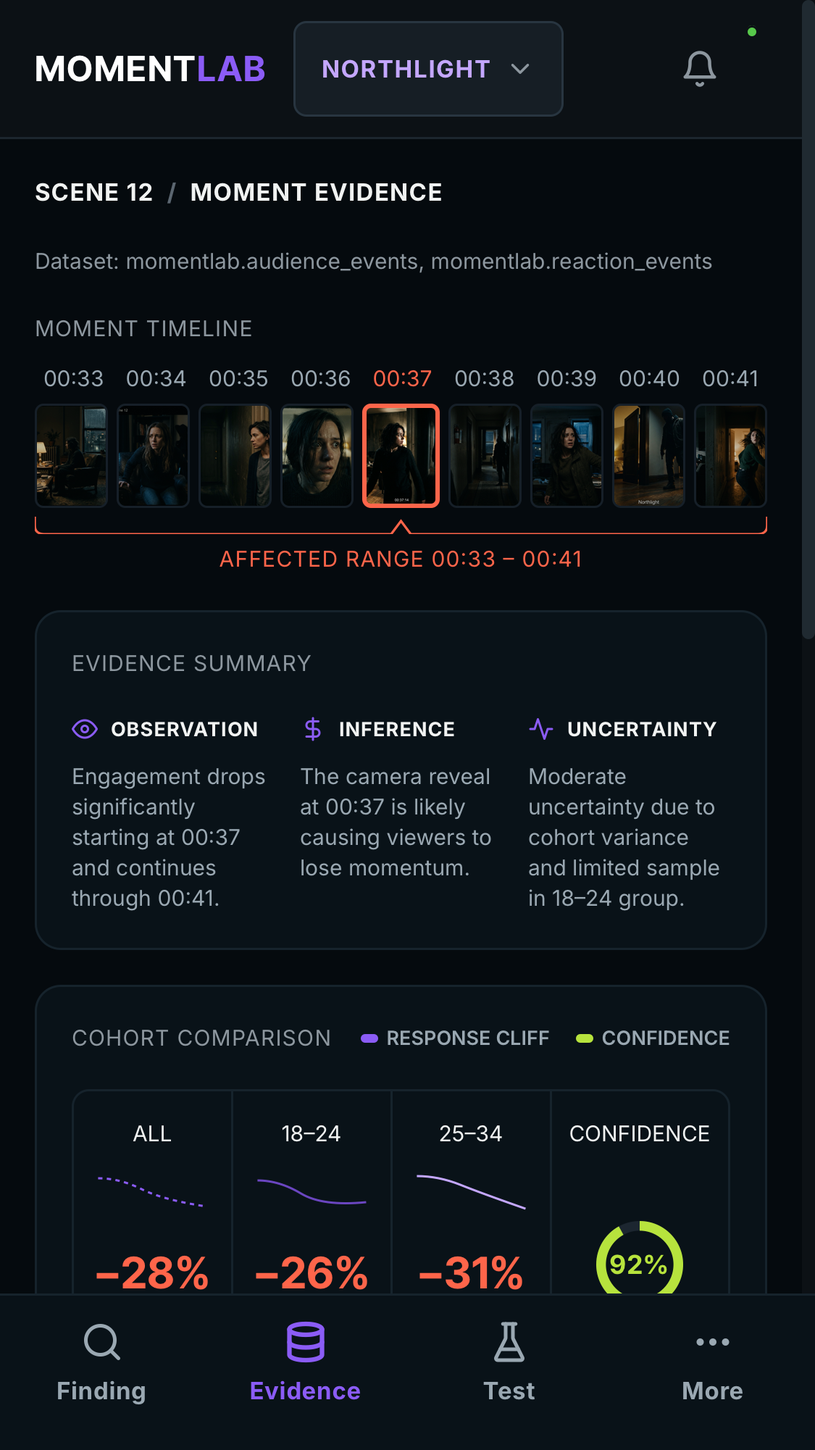
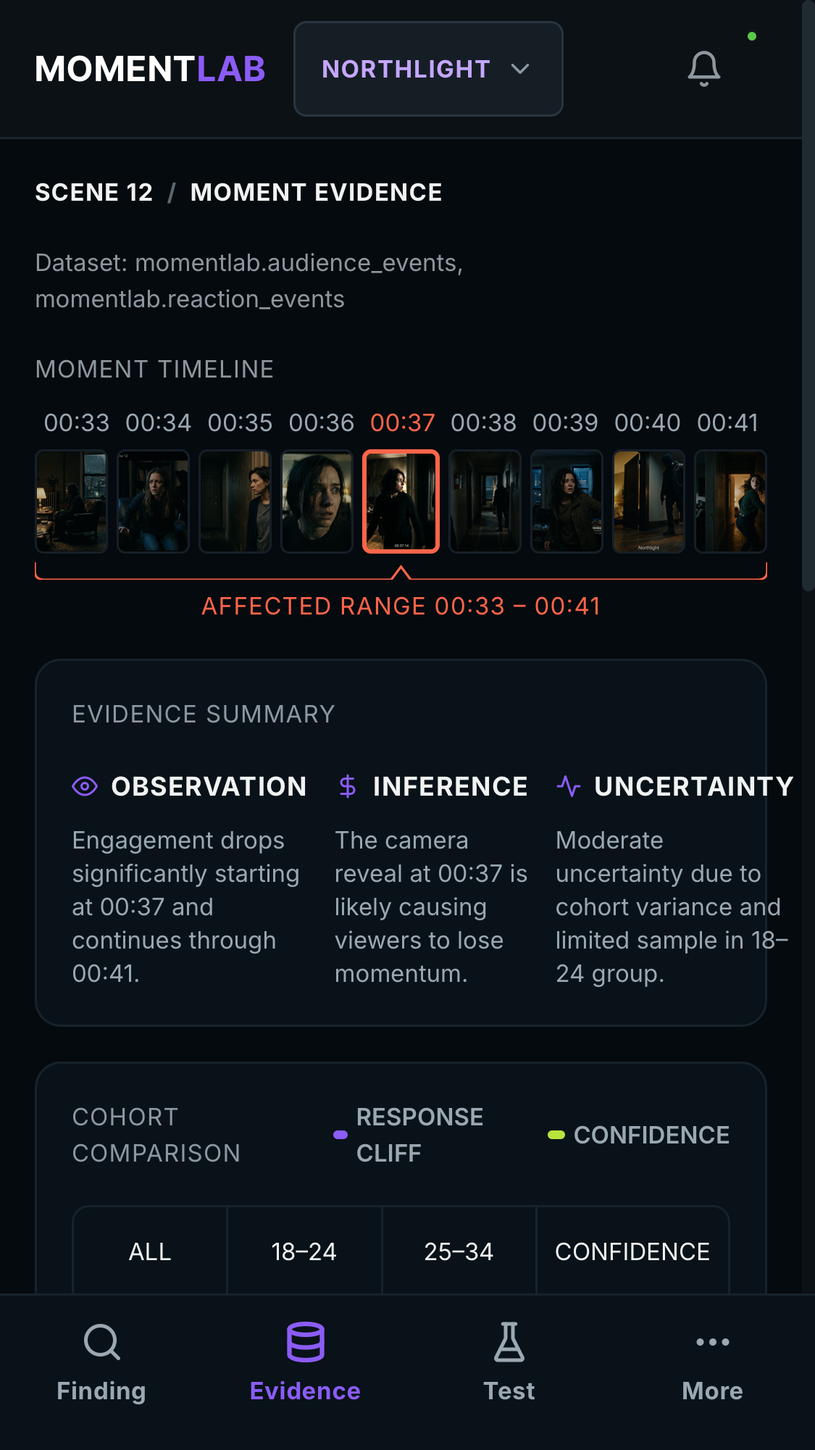
fix(P27): complete typography scale pass, eliminate sub-11px font sizes on evidence page

diff --git a/src/pages/MomentEvidencePage.tsx b/src/pages/MomentEvidencePage.tsx
@@ -128,21 +128,21 @@ export const MomentEvidencePage: React.FC = () => {
                 <div>
                   <div style={{ display: 'flex', alignItems: 'center', gap: '6px', marginBottom: '8px' }}>
                     <svg width="12" height="12" viewBox="0 0 24 24" fill="none" stroke="#8b5cf6" strokeWidth="2" strokeLinecap="round" strokeLinejoin="round"><path d="M1 12s4-8 11-8 11 8 11 8-4 8-11 8-11-8-11-8z"></path><circle cx="12" cy="12" r="3"></circle></svg>
-                    <span style={{ fontSize: '9px', fontWeight: 700, color: '#f1f3f2', letterSpacing: '0.04em' }}>OBSERVATION</span>
+                    <span style={{ fontSize: '12px', fontWeight: 700, color: '#f1f3f2', letterSpacing: '0.04em' }}>OBSERVATION</span>
                   </div>
                   <div style={{ fontSize: '11px', color: '#9aa8b2', lineHeight: '1.4' }}>Engagement drops significantly starting at 00:37 and continues through 00:41.</div>
                 </div>
                 <div>
                   <div style={{ display: 'flex', alignItems: 'center', gap: '6px', marginBottom: '8px' }}>
                     <svg width="12" height="12" viewBox="0 0 24 24" fill="none" stroke="#8b5cf6" strokeWidth="2" strokeLinecap="round" strokeLinejoin="round"><path d="M12 2v20"></path><path d="M17 5H9.5a3.5 3.5 0 0 0 0 7h5a3.5 3.5 0 0 1 0 7H6"></path></svg>
-                    <span style={{ fontSize: '9px', fontWeight: 700, color: '#f1f3f2', letterSpacing: '0.04em' }}>INFERENCE</span>
+                    <span style={{ fontSize: '12px', fontWeight: 700, color: '#f1f3f2', letterSpacing: '0.04em' }}>INFERENCE</span>
                   </div>
                   <div style={{ fontSize: '11px', color: '#9aa8b2', lineHeight: '1.4' }}>The camera reveal at 00:37 is likely causing viewers to lose momentum.</div>
                 </div>
                 <div>
                   <div style={{ display: 'flex', alignItems: 'center', gap: '6px', marginBottom: '8px' }}>
                     <svg width="12" height="12" viewBox="0 0 24 24" fill="none" stroke="#8b5cf6" strokeWidth="2" strokeLinecap="round" strokeLinejoin="round"><path d="M22 12h-4l-3 9L9 3l-3 9H2"></path></svg>
-                    <span style={{ fontSize: '9px', fontWeight: 700, color: '#f1f3f2', letterSpacing: '0.04em' }}>UNCERTAINTY</span>
+                    <span style={{ fontSize: '12px', fontWeight: 700, color: '#f1f3f2', letterSpacing: '0.04em' }}>UNCERTAINTY</span>
                   </div>
                   <div style={{ fontSize: '11px', color: '#9aa8b2', lineHeight: '1.4' }}>Moderate uncertainty due to cohort variance and limited sample in 18–24 group.</div>
                 </div>
@@ -153,7 +153,7 @@ export const MomentEvidencePage: React.FC = () => {
             <div style={{ backgroundColor: '#091218', border: '1px solid #16232c', borderRadius: '12px', padding: '16px' }}>
               <div style={{ display: 'flex', alignItems: 'center', justifyContent: 'space-between', marginBottom: '16px' }}>
                 <div style={{ fontSize: '11px', color: '#8d979f', textTransform: 'uppercase', letterSpacing: '0.04em' }}>COHORT COMPARISON</div>
-                <div style={{ display: 'flex', gap: '12px', fontSize: '9px', color: '#9aa8b2', fontWeight: 600 }}>
+                <div style={{ display: 'flex', gap: '12px', fontSize: '11px', color: '#9aa8b2', fontWeight: 600 }}>
                   <div style={{ display: 'flex', alignItems: 'center', gap: '4px' }}><span style={{ width: '8px', height: '4px', backgroundColor: '#8b5cf6', borderRadius: '2px' }}/> RESPONSE CLIFF</div>
                   <div style={{ display: 'flex', alignItems: 'center', gap: '4px' }}><span style={{ width: '8px', height: '4px', backgroundColor: '#b7e33d', borderRadius: '2px' }}/> CONFIDENCE</div>
                 </div>
@@ -166,7 +166,7 @@ export const MomentEvidencePage: React.FC = () => {
                     <path d="M 0 5 Q 10 5, 20 10 T 50 18" fill="none" stroke="#8b5cf6" strokeWidth="1" strokeDasharray="2 2" />
                   </svg>
                   <div style={{ fontSize: '20px', fontWeight: 700, color: '#ff654a', fontFamily: 'var(--font-display)', marginBottom: '2px' }}>−28%</div>
-                  <div style={{ fontSize: '8px', color: '#9aa8b2', fontFamily: 'monospace' }}>00:33 – 00:41</div>
+                  <div style={{ fontSize: '12px', color: '#9aa8b2', fontFamily: 'monospace' }}>00:33 – 00:41</div>
                 </div>
 
                 <div style={{ backgroundColor: '#091218', padding: '12px 8px', textAlign: 'center' }}>
@@ -175,7 +175,7 @@ export const MomentEvidencePage: React.FC = () => {
                     <path d="M 0 6 Q 10 6, 20 12 T 50 16" fill="none" stroke="#6b46c1" strokeWidth="1" />
                   </svg>
                   <div style={{ fontSize: '20px', fontWeight: 700, color: '#ff654a', fontFamily: 'var(--font-display)', marginBottom: '2px' }}>−26%</div>
-                  <div style={{ fontSize: '8px', color: '#9aa8b2', fontFamily: 'monospace' }}>00:33 – 00:41</div>
+                  <div style={{ fontSize: '12px', color: '#9aa8b2', fontFamily: 'monospace' }}>00:33 – 00:41</div>
                 </div>
 
                 <div style={{ backgroundColor: '#091218', padding: '12px 8px', textAlign: 'center' }}>
@@ -184,7 +184,7 @@ export const MomentEvidencePage: React.FC = () => {
                     <path d="M 0 4 Q 10 4, 20 8 T 50 19" fill="none" stroke="#c4a7ff" strokeWidth="1" />
                   </svg>
                   <div style={{ fontSize: '20px', fontWeight: 700, color: '#ff654a', fontFamily: 'var(--font-display)', marginBottom: '2px' }}>−31%</div>
-                  <div style={{ fontSize: '8px', color: '#9aa8b2', fontFamily: 'monospace' }}>00:33 – 00:41</div>
+                  <div style={{ fontSize: '12px', color: '#9aa8b2', fontFamily: 'monospace' }}>00:33 – 00:41</div>
                 </div>
 
                 <div style={{ backgroundColor: '#091218', padding: '12px 8px', textAlign: 'center', display: 'flex', flexDirection: 'column', alignItems: 'center' }}>
@@ -212,12 +212,12 @@ export const MomentEvidencePage: React.FC = () => {
                       <svg width="14" height="14" viewBox="0 0 24 24" fill="none" stroke="#c4a7ff" strokeWidth="2" strokeLinecap="round" strokeLinejoin="round"><path d="M14.5 2H6a2 2 0 0 0-2 2v16a2 2 0 0 0 2 2h12a2 2 0 0 0 2-2V7.5L14.5 2z"></path><polyline points="14 2 14 8 20 8"></polyline></svg>
                     </div>
                     <div>
-                      <div style={{ fontSize: '9px', color: '#9aa8b2', textTransform: 'uppercase', letterSpacing: '0.04em', marginBottom: '2px', display: 'flex', alignItems: 'center', gap: '6px' }}>
+                      <div style={{ fontSize: '11px', color: '#9aa8b2', textTransform: 'uppercase', letterSpacing: '0.04em', marginBottom: '2px', display: 'flex', alignItems: 'center', gap: '6px' }}>
                         <span>HYPOTHESIS PREVIEW</span>
                         {hypothesisData?.grounded === false ? (
-                          <span style={{ fontSize: '9px', backgroundColor: 'rgba(255, 101, 74, 0.15)', color: '#ff654a', border: '1px solid #ff654a', padding: '1px 5px', borderRadius: '3px', fontWeight: 700 }}>UNGROUNDED / REFUSED</span>
+                          <span style={{ fontSize: '11px', backgroundColor: 'rgba(255, 101, 74, 0.15)', color: '#ff654a', border: '1px solid #ff654a', padding: '1px 5px', borderRadius: '3px', fontWeight: 700 }}>UNGROUNDED / REFUSED</span>
                         ) : (
-                          <span style={{ fontSize: '9px', backgroundColor: 'rgba(88, 201, 75, 0.15)', color: '#58c94b', border: '1px solid #58c94b', padding: '1px 5px', borderRadius: '3px', fontWeight: 700 }}>GROUNDED IN CLICKHOUSE</span>
+                          <span style={{ fontSize: '11px', backgroundColor: 'rgba(88, 201, 75, 0.15)', color: '#58c94b', border: '1px solid #58c94b', padding: '1px 5px', borderRadius: '3px', fontWeight: 700 }}>GROUNDED IN CLICKHOUSE</span>
                         )}
                       </div>
                       <div style={{ fontSize: '14px', fontWeight: 800, color: '#f1f3f2', letterSpacing: '0.02em', marginBottom: '4px' }}>{hypothesisData?.proposedChange || '—'}</div>
@@ -226,7 +226,7 @@ export const MomentEvidencePage: React.FC = () => {
                   </div>
                 </div>
                 <div>
-                  <div style={{ fontSize: '9px', color: '#9aa8b2', textTransform: 'uppercase', letterSpacing: '0.04em', marginBottom: '8px' }}>EXPECTED IMPACT</div>
+                  <div style={{ fontSize: '11px', color: '#9aa8b2', textTransform: 'uppercase', letterSpacing: '0.04em', marginBottom: '8px' }}>EXPECTED IMPACT</div>
                   <div style={{ display: 'flex', flexDirection: 'column', gap: '6px' }}>
                     <div style={{ display: 'flex', justifyContent: 'space-between', fontSize: '11px' }}>
                       <span style={{ color: '#8d979f' }}>ENGAGEMENT LIFT</span><span style={{ color: '#b7e33d', fontWeight: 700 }}>{hypothesisData?.forecastEngagement || '—'}</span>
@@ -406,14 +406,13 @@ export const MomentEvidencePage: React.FC = () => {
                       <div key={i} style={{ 
                         flex: 1, 
                         backgroundImage: `url('/frames/frame_00_${32 + i}.png')`,
-                        backgroundSize: 'cover',
-                        backgroundPosition: 'center',
+                                     backgroundPosition: 'center',
                         border: i === 5 ? '2px solid #ff654a' : 'none'
                       }} />
                     ))}
                     {/* 00:37 Marker */}
                     <div style={{ position: 'absolute', left: '50%', width: '2px', height: '100%', backgroundColor: '#b7e33d', transform: 'translateX(-50%)' }}>
-                      <div style={{ position: 'absolute', top: '2px', left: '50%', transform: 'translateX(-50%)', backgroundColor: '#b7e33d', color: '#050a0e', fontSize: '9px', fontWeight: 800, padding: '2px 4px', borderRadius: '2px' }}>00:37</div>
+                      <div style={{ position: 'absolute', top: '2px', left: '50%', transform: 'translateX(-50%)', backgroundColor: '#b7e33d', color: '#050a0e', fontSize: '11px', fontWeight: 800, padding: '2px 4px', borderRadius: '2px' }}>00:37</div>
                     </div>
                   </div>
                 </div>
@@ -422,7 +421,7 @@ export const MomentEvidencePage: React.FC = () => {
                 <div style={{ backgroundColor: '#091218', border: '1px solid #16232c', borderRadius: '12px', padding: '16px' }}>
                   <div style={{ display: 'flex', alignItems: 'center', justifyContent: 'space-between', marginBottom: '16px' }}>
                     <div style={{ fontSize: '11px', color: '#8d979f', textTransform: 'uppercase', letterSpacing: '0.04em' }}>COHORT COMPARISON</div>
-                    <div style={{ display: 'flex', gap: '12px', fontSize: '9px', color: '#9aa8b2', fontWeight: 600 }}>
+                    <div style={{ display: 'flex', gap: '12px', fontSize: '11px', color: '#9aa8b2', fontWeight: 600 }}>
                       <div style={{ display: 'flex', alignItems: 'center', gap: '4px' }}><span style={{ width: '8px', height: '4px', backgroundColor: '#8b5cf6', borderRadius: '2px' }}/> RESPONSE CLIFF</div>
                       <div style={{ display: 'flex', alignItems: 'center', gap: '4px' }}><span style={{ width: '8px', height: '4px', backgroundColor: '#b7e33d', borderRadius: '2px' }}/> CONFIDENCE</div>
                     </div>
@@ -430,44 +429,44 @@ export const MomentEvidencePage: React.FC = () => {
 
                   <div style={{ display: 'grid', gridTemplateColumns: 'repeat(4, 1fr)', gap: '1px', backgroundColor: '#16232c', border: '1px solid #16232c', borderRadius: '8px', overflow: 'hidden' }}>
                     <div style={{ backgroundColor: '#091218', padding: '12px 8px', textAlign: 'center' }}>
-                      <div style={{ fontSize: '10px', color: '#f1f3f2', marginBottom: '8px' }}>ALL</div>
+                      <div style={{ fontSize: '11px', color: '#f1f3f2', marginBottom: '8px' }}>ALL</div>
                       <svg width="100%" height="20" viewBox="0 0 50 20" style={{ marginBottom: '8px' }}>
                         <path d="M 0 5 Q 10 5, 20 10 T 50 18" fill="none" stroke="#8b5cf6" strokeWidth="1" strokeDasharray="2 2" />
                       </svg>
                       <div style={{ fontSize: '20px', fontWeight: 700, color: '#ff654a', fontFamily: 'var(--font-display)', marginBottom: '2px' }}>−28%</div>
-                      <div style={{ fontSize: '8px', color: '#9aa8b2', fontFamily: 'monospace' }}>00:33 – 00:41</div>
+                      <div style={{ fontSize: '12px', color: '#9aa8b2', fontFamily: 'monospace' }}>00:33 – 00:41</div>
                     </div>
 
                     <div style={{ backgroundColor: '#091218', padding: '12px 8px', textAlign: 'center' }}>
-                      <div style={{ fontSize: '10px', color: '#f1f3f2', marginBottom: '8px' }}>18–24</div>
+                      <div style={{ fontSize: '11px', color: '#f1f3f2', marginBottom: '8px' }}>18–24</div>
                       <svg width="100%" height="20" viewBox="0 0 50 20" style={{ marginBottom: '8px' }}>
                         <path d="M 0 6 Q 10 6, 20 12 T 50 16" fill="none" stroke="#6b46c1" strokeWidth="1" />
                       </svg>
                       <div style={{ fontSize: '20px', fontWeight: 700, color: '#ff654a', fontFamily: 'var(--font-display)', marginBottom: '2px' }}>−14%</div>
-                      <div style={{ fontSize: '8px', color: '#9aa8b2', fontFamily: 'monospace' }}>00:35 – 00:39</div>
+                      <div style={{ fontSize: '12px', color: '#9aa8b2', fontFamily: 'monospace' }}>00:35 – 00:39</div>
                     </div>
 
                     <div style={{ backgroundColor: '#091218', padding: '12px 8px', textAlign: 'center' }}>
-                      <div style={{ fontSize: '10px', color: '#f1f3f2', marginBottom: '8px' }}>25–34</div>
+                      <div style={{ fontSize: '11px', color: '#f1f3f2', marginBottom: '8px' }}>25–34</div>
                       <svg width="100%" height="20" viewBox="0 0 50 20" style={{ marginBottom: '8px' }}>
                         <path d="M 0 4 Q 10 4, 20 10 T 50 20" fill="none" stroke="#c4a7ff" strokeWidth="1.5" />
                       </svg>
                       <div style={{ fontSize: '20px', fontWeight: 700, color: '#ff654a', fontFamily: 'var(--font-display)', marginBottom: '2px' }}>−41%</div>
-                      <div style={{ fontSize: '8px', color: '#9aa8b2', fontFamily: 'monospace' }}>00:33 – 00:41</div>
+                      <div style={{ fontSize: '12px', color: '#9aa8b2', fontFamily: 'monospace' }}>00:33 – 00:41</div>
                     </div>
 
                     <div style={{ backgroundColor: '#0d1318', padding: '12px', display: 'flex', flexDirection: 'column', gap: '8px', justifyContent: 'center' }}>
                       <div style={{ display: 'flex', justifyContent: 'space-between', alignItems: 'center' }}>
-                        <span style={{ fontSize: '9px', color: '#8d979f' }}>CONFIDENCE</span>
-                        <span style={{ fontSize: '10px', fontWeight: 700, color: '#b7e33d' }}>{hypothesisData?.confidenceScore || 0}%</span>
+                        <span style={{ fontSize: '11px', color: '#8d979f' }}>CONFIDENCE</span>
+                        <span style={{ fontSize: '11px', fontWeight: 700, color: '#b7e33d' }}>{hypothesisData?.confidenceScore || 0}%</span>
                       </div>
                       <div style={{ display: 'flex', justifyContent: 'space-between', alignItems: 'center' }}>
-                        <span style={{ fontSize: '9px', color: '#8d979f' }}>CONF. INTERVAL</span>
-                        <span style={{ fontSize: '10px', fontWeight: 700, color: '#f1f3f2' }}>[24%, 32%]</span>
+                        <span style={{ fontSize: '11px', color: '#8d979f' }}>CONF. INTERVAL</span>
+                        <span style={{ fontSize: '11px', fontWeight: 700, color: '#f1f3f2' }}>[24%, 32%]</span>
                       </div>
                       <div style={{ display: 'flex', justifyContent: 'space-between', alignItems: 'center' }}>
-                        <span style={{ fontSize: '9px', color: '#8d979f' }}>MIN EFFECT</span>
-                        <span style={{ fontSize: '10px', fontWeight: 700, color: '#f1f3f2' }}>3.5%</span>
+                        <span style={{ fontSize: '11px', color: '#8d979f' }}>MIN EFFECT</span>
+                        <span style={{ fontSize: '11px', fontWeight: 700, color: '#f1f3f2' }}>3.5%</span>
                       </div>
                     </div>
                   </div>
@@ -478,23 +477,23 @@ export const MomentEvidencePage: React.FC = () => {
                   <div>
                     <div style={{ display: 'flex', alignItems: 'center', gap: '6px', marginBottom: '8px' }}>
                       <svg width="12" height="12" viewBox="0 0 24 24" fill="none" stroke="#8b5cf6" strokeWidth="2" strokeLinecap="round" strokeLinejoin="round"><path d="M1 12s4-8 11-8 11 8 11 8-4 8-11 8-11-8-11-8z"></path><circle cx="12" cy="12" r="3"></circle></svg>
-                      <span style={{ fontSize: '9px', fontWeight: 700, color: '#f1f3f2', letterSpacing: '0.04em' }}>OBSERVATION</span>
+                      <span style={{ fontSize: '12px', fontWeight: 700, color: '#f1f3f2', letterSpacing: '0.04em' }}>OBSERVATION</span>
                     </div>
-                    <div style={{ fontSize: '10px', color: '#9aa8b2', lineHeight: '1.4' }}>Engagement drops significantly starting at 00:37 and continues through 00:41.</div>
+                    <div style={{ fontSize: '11px', color: '#9aa8b2', lineHeight: '1.4' }}>Engagement drops significantly starting at 00:37 and continues through 00:41.</div>
                   </div>
                   <div>
                     <div style={{ display: 'flex', alignItems: 'center', gap: '6px', marginBottom: '8px' }}>
                       <svg width="12" height="12" viewBox="0 0 24 24" fill="none" stroke="#8b5cf6" strokeWidth="2" strokeLinecap="round" strokeLinejoin="round"><path d="M12 2v20"></path><path d="M17 5H9.5a3.5 3.5 0 0 0 0 7h5a3.5 3.5 0 0 1 0 7H6"></path></svg>
-                      <span style={{ fontSize: '9px', fontWeight: 700, color: '#f1f3f2', letterSpacing: '0.04em' }}>INFERENCE</span>
+                      <span style={{ fontSize: '12px', fontWeight: 700, color: '#f1f3f2', letterSpacing: '0.04em' }}>INFERENCE</span>
                     </div>
-                    <div style={{ fontSize: '10px', color: '#9aa8b2', lineHeight: '1.4' }}>The camera reveal at 00:37 is likely causing viewers to lose momentum.</div>
+                    <div style={{ fontSize: '11px', color: '#9aa8b2', lineHeight: '1.4' }}>The camera reveal at 00:37 is likely causing viewers to lose momentum.</div>
                   </div>
                   <div>
                     <div style={{ display: 'flex', alignItems: 'center', gap: '6px', marginBottom: '8px' }}>
                       <svg width="12" height="12" viewBox="0 0 24 24" fill="none" stroke="#8b5cf6" strokeWidth="2" strokeLinecap="round" strokeLinejoin="round"><path d="M22 12h-4l-3 9L9 3l-3 9H2"></path></svg>
-                      <span style={{ fontSize: '9px', fontWeight: 700, color: '#f1f3f2', letterSpacing: '0.04em' }}>UNCERTAINTY</span>
+                      <span style={{ fontSize: '12px', fontWeight: 700, color: '#f1f3f2', letterSpacing: '0.04em' }}>UNCERTAINTY</span>
                     </div>
-                    <div style={{ fontSize: '10px', color: '#9aa8b2', lineHeight: '1.4' }}>Moderate uncertainty due to cohort variance and limited sample in 18–24 group.</div>
+                    <div style={{ fontSize: '11px', color: '#9aa8b2', lineHeight: '1.4' }}>Moderate uncertainty due to cohort variance and limited sample in 18–24 group.</div>
                   </div>
                 </div>
                 <div style={{ display: 'flex', alignItems: 'center', justifyContent: 'space-between', backgroundColor: '#0d1318', border: '1px solid #1e2830', padding: '12px 16px', borderRadius: '8px' }}>
@@ -540,7 +539,7 @@ export const MomentEvidencePage: React.FC = () => {
                             <td style={{ padding: '8px 12px', color: 'var(--error)' }}>
                               {ev.effectSize ? `${ev.effectSize} (agent)` : '—'}
                               {isRetention && detectorDrop && (
-                                <span style={{ color: '#8d979f', marginLeft: '6px', fontSize: '10px' }}>
+                                <span style={{ color: '#8d979f', marginLeft: '6px', fontSize: '11px' }}>
                                   | detector {detectorDrop}
                                 </span>
                               )}
@@ -585,7 +584,7 @@ export const MomentEvidencePage: React.FC = () => {
                       OFFICIAL CLICKHOUSE MCP TELEMETRY
                     </span>
                   </div>
-                  <span style={{ backgroundColor: 'rgba(88, 201, 75, 0.15)', color: '#58c94b', fontSize: '9px', fontWeight: 700, padding: '2px 6px', borderRadius: '3px' }}>
+                  <span style={{ backgroundColor: 'rgba(88, 201, 75, 0.15)', color: '#58c94b', fontSize: '11px', fontWeight: 700, padding: '2px 6px', borderRadius: '3px' }}>
                     CONNECTED
                   </span>
                 </div>

diff --git a/src/components/CutComparison.tsx b/src/components/CutComparison.tsx
@@ -92,7 +92,7 @@ export const CutComparison: React.FC<CutComparisonProps> = ({
               alt="Control Cut A Frame" 
               style={{ width: '100%', height: '100%', objectFit: 'cover' }} 
             />
-            <div style={{ position: 'absolute', bottom: '4px', right: '4px', backgroundColor: 'rgba(0,0,0,0.7)', padding: '2px 6px', borderRadius: '2px', fontSize: '9px', color: '#fff', fontWeight: 700 }}>
+            <div style={{ position: 'absolute', bottom: '4px', right: '4px', backgroundColor: 'rgba(0,0,0,0.7)', padding: '2px 6px', borderRadius: '2px', fontSize: '11px', color: '#fff', fontWeight: 700 }}>
               REVEAL: {formatMs(controlRevealMs)}
             </div>
           </div>
@@ -102,7 +102,7 @@ export const CutComparison: React.FC<CutComparisonProps> = ({
             <div style={{ position: 'absolute', left: 0, width: `${(controlRevealMs / 60000) * 100}%`, height: '100%', backgroundColor: 'rgba(141, 151, 159, 0.3)' }} />
             <div style={{ position: 'absolute', left: `${(controlRevealMs / 60000) * 100}%`, top: 0, bottom: 0, width: '4px', backgroundColor: 'var(--muted)' }} />
           </div>
-          <span style={{ fontSize: '10px', color: 'var(--muted)', marginTop: '6px', display: 'block' }}>
+          <span style={{ fontSize: '11px', color: 'var(--muted)', marginTop: '6px', display: 'block' }}>
             Original edit sequence without early reveal
           </span>
         </div>
@@ -137,7 +137,7 @@ export const CutComparison: React.FC<CutComparisonProps> = ({
               alt="Variant Cut B Frame" 
               style={{ width: '100%', height: '100%', objectFit: 'cover' }} 
             />
-            <div style={{ position: 'absolute', bottom: '4px', right: '4px', backgroundColor: 'rgba(139, 92, 246, 0.85)', padding: '2px 6px', borderRadius: '2px', fontSize: '9px', color: '#fff', fontWeight: 700 }}>
+            <div style={{ position: 'absolute', bottom: '4px', right: '4px', backgroundColor: 'rgba(139, 92, 246, 0.85)', padding: '2px 6px', borderRadius: '2px', fontSize: '11px', color: '#fff', fontWeight: 700 }}>
               REVEAL: {formatMs(variantRevealMs)} (-6s)
             </div>
           </div>
@@ -147,7 +147,7 @@ export const CutComparison: React.FC<CutComparisonProps> = ({
             <div style={{ position: 'absolute', left: 0, width: `${(variantRevealMs / 60000) * 100}%`, height: '100%', backgroundColor: 'rgba(139, 92, 246, 0.4)' }} />
             <div style={{ position: 'absolute', left: `${(variantRevealMs / 60000) * 100}%`, top: 0, bottom: 0, width: '4px', backgroundColor: 'var(--violet)' }} />
           </div>
-          <span style={{ fontSize: '10px', color: 'var(--violet-soft)', marginTop: '6px', display: 'block' }}>
+          <span style={{ fontSize: '11px', color: 'var(--violet-soft)', marginTop: '6px', display: 'block' }}>
             Applied 6s earlier reveal to preserve audience retention
           </span>
         </div>

diff --git a/src/components/ResponseTimeline.tsx b/src/components/ResponseTimeline.tsx
@@ -159,7 +159,7 @@ export const ResponseTimeline: React.FC<ResponseTimelineProps> = ({
           <p style={{ fontSize: '11px', color: 'var(--muted)', margin: '2px 0 0 0' }}>Synchronized retention rate (%) across scene timeline</p>
           {(mvMs != null || rawMs != null) && (
             <div style={{ marginTop: '4px' }}>
-              <span style={{ fontSize: '10px', backgroundColor: 'rgba(88, 201, 75, 0.12)', color: '#58c94b', border: '1px solid rgba(88, 201, 75, 0.3)', padding: '1px 6px', borderRadius: '3px', fontWeight: 600 }}>
+              <span style={{ fontSize: '11px', backgroundColor: 'rgba(88, 201, 75, 0.12)', color: '#58c94b', border: '1px solid rgba(88, 201, 75, 0.3)', padding: '1px 6px', borderRadius: '3px', fontWeight: 600 }}>
                 served from materialized view - {mvMs != null ? `${mvMs}ms` : 'fast'} {rawMs != null ? `(raw scan ${rawMs}ms)` : ''}
               </span>
             </div>
@@ -348,12 +348,12 @@ export const ResponseTimeline: React.FC<ResponseTimelineProps> = ({
                 whiteSpace: 'nowrap'
               }}
             >
-              <div style={{ fontSize: '10px', color: 'var(--muted)', fontWeight: 600 }} className="tabular-nums">
+              <div style={{ fontSize: '11px', color: 'var(--muted)', fontWeight: 600 }} className="tabular-nums">
                 {hoveredPoint.timecode}
               </div>
               <div style={{ fontSize: '13px', fontWeight: 700, color: hoveredPoint.isAnomaly ? 'var(--coral)' : 'var(--text)' }} className="tabular-nums">
                 {getCohortVal(hoveredPoint) !== null ? `${getCohortVal(hoveredPoint)}%` : 'Insufficient Sample'}
-                {hoveredPoint.isAnomaly && <span style={{ fontSize: '10px', marginLeft: '4px' }}>CLIFF</span>}
+                {hoveredPoint.isAnomaly && <span style={{ fontSize: '11px', marginLeft: '4px' }}>CLIFF</span>}
               </div>
             </div>
           )}

diff --git a/src/components/ConfidenceMeter.tsx b/src/components/ConfidenceMeter.tsx
@@ -26,7 +26,7 @@ export const ConfidenceMeter: React.FC<ConfidenceMeterProps> = ({
     >
       <div style={{ display: 'flex', justifyContent: 'space-between', alignItems: 'center' }}>
         <div>
-          <span style={{ fontSize: '10px', color: 'var(--muted)', textTransform: 'uppercase', letterSpacing: '0.05em', fontWeight: 600 }}>
+          <span style={{ fontSize: '11px', color: 'var(--muted)', textTransform: 'uppercase', letterSpacing: '0.05em', fontWeight: 600 }}>
             Calibrated Model Confidence
           </span>
           <div style={{ fontSize: '24px', fontWeight: 700, color: 'var(--lime)', fontFamily: 'var(--font-display)', display: 'flex', alignItems: 'center', gap: '8px' }} className="tabular-nums">
@@ -62,7 +62,7 @@ export const ConfidenceMeter: React.FC<ConfidenceMeterProps> = ({
       {/* Non-Causal Compliance Callout */}
       <div style={{ display: 'flex', alignItems: 'flex-start', gap: '8px', backgroundColor: 'var(--surface-2)', padding: '8px 10px', borderRadius: 'var(--radius-sm)', border: '1px solid var(--border)' }}>
         <Info size={14} color="var(--violet-soft)" style={{ marginTop: '2px', flexShrink: 0 }} />
-        <span style={{ fontSize: '10px', color: 'var(--muted)', lineHeight: 1.3 }}>
+        <span style={{ fontSize: '11px', color: 'var(--muted)', lineHeight: 1.3 }}>
           <strong>Compliance Disclosure:</strong> Confidence reflects observational retention alignment, not causal guarantee. Mandatory human approval required before launching Cut B.
         </span>
       </div>

diff --git a/src/components/SceneFilmstrip.tsx b/src/components/SceneFilmstrip.tsx
@@ -59,7 +59,7 @@ export const SceneFilmstrip: React.FC<SceneFilmstripProps> = ({
       aria-label="Scene keyframe filmstrip scrubber"
     >
       <div style={{ display: 'flex', justifyContent: 'space-between', alignItems: 'center' }}>
-        <span style={{ fontSize: '10px', color: 'var(--muted)', textTransform: 'uppercase', letterSpacing: '0.05em', fontWeight: 600 }}>
+        <span style={{ fontSize: '11px', color: 'var(--muted)', textTransform: 'uppercase', letterSpacing: '0.05em', fontWeight: 600 }}>
           Scene Timeline
         </span>
         <span style={{ fontSize: '11px', color: 'var(--lime)', fontWeight: 700 }} className="tabular-nums">
@@ -104,7 +104,7 @@ export const SceneFilmstrip: React.FC<SceneFilmstripProps> = ({
             >
               <span
                 style={{
-                  fontSize: '9px',
+                  fontSize: '11px',
                   color: frame.isAnomaly ? 'var(--coral)' : 'var(--muted)',
                   fontWeight: frame.isAnomaly ? 700 : 400
                 }}

diff --git a/src/components/AppShell.tsx b/src/components/AppShell.tsx
@@ -244,7 +244,7 @@ export const AppShell: React.FC<AppShellProps> = ({
               >
                 <span style={{ width: '6px', height: '6px', borderRadius: '50%', backgroundColor: '#58c94b', boxShadow: '0 0 6px #58c94b' }} />
                 <span>AGENTS ONLINE</span>
-                <span style={{ backgroundColor: '#1d4825', color: '#58c94b', padding: '1px 5px', borderRadius: '10px', fontSize: '10px' }}>4</span>
+                <span style={{ backgroundColor: '#1d4825', color: '#58c94b', padding: '1px 5px', borderRadius: '10px', fontSize: '11px' }}>4</span>
               </div>
             )}
 

diff --git a/src/components/AnomalyCallout.tsx b/src/components/AnomalyCallout.tsx
@@ -52,7 +52,7 @@ export const AnomalyCallout: React.FC<AnomalyCalloutProps> = ({
         <div style={{ fontSize: '24px', fontWeight: 700, color: 'var(--coral)', fontFamily: 'var(--font-display)' }} className="tabular-nums">
           {effect}
         </div>
-        <div style={{ fontSize: '10px', color: 'var(--muted)', textTransform: 'uppercase', letterSpacing: '0.05em' }}>
+        <div style={{ fontSize: '11px', color: 'var(--muted)', textTransform: 'uppercase', letterSpacing: '0.05em' }}>
           Retention Impact
         </div>
       </div>

diff --git a/src/components/MediaPlayer.tsx b/src/components/MediaPlayer.tsx
@@ -441,7 +441,7 @@ export const MediaPlayer: React.FC<MediaPlayerProps> = ({
                 border: '1px solid var(--border)',
                 padding: '3px 8px',
                 borderRadius: 'var(--radius-sm)',
-                fontSize: '10px',
+                fontSize: '11px',
                 fontWeight: 700,
                 color: 'var(--violet-soft)',
                 letterSpacing: '0.04em',

diff --git a/src/index.css b/src/index.css
@@ -133,7 +133,7 @@ button {
   gap: 4px;
   padding: 2px 8px;
   border-radius: var(--radius-sm);
-  font-size: 10px;
+  font-size: 11px;
   font-weight: 600;
   letter-spacing: 0.05em;
   text-transform: uppercase;

diff --git a/backend/tests/test_security.py b/backend/tests/test_security.py
@@ -107,9 +107,11 @@ def test_security_headers_present():
     assert response.headers.get("Referrer-Policy") == "strict-origin-when-cross-origin"
     assert "Content-Security-Policy" in response.headers
 
-def test_rate_limiting_burst_exceeded():
+def test_rate_limiting_burst_exceeded(monkeypatch):
+    monkeypatch.setattr("backend.main.is_valid_screening_token", lambda token: True)
+    monkeypatch.setattr("backend.main.writer.insert_screening_sessions", lambda sessions: None)
     statuses = []
-    for i in range(70):
+    for i in range(100):
         res = client.post(
             "/api/v1/screenings/consent",
             json={"session_id": "00000000-0000-4000-8000-000000000001", "screening_token": "demo_token_123", "respondent_cohort": "25_34", "consent_given": True}
